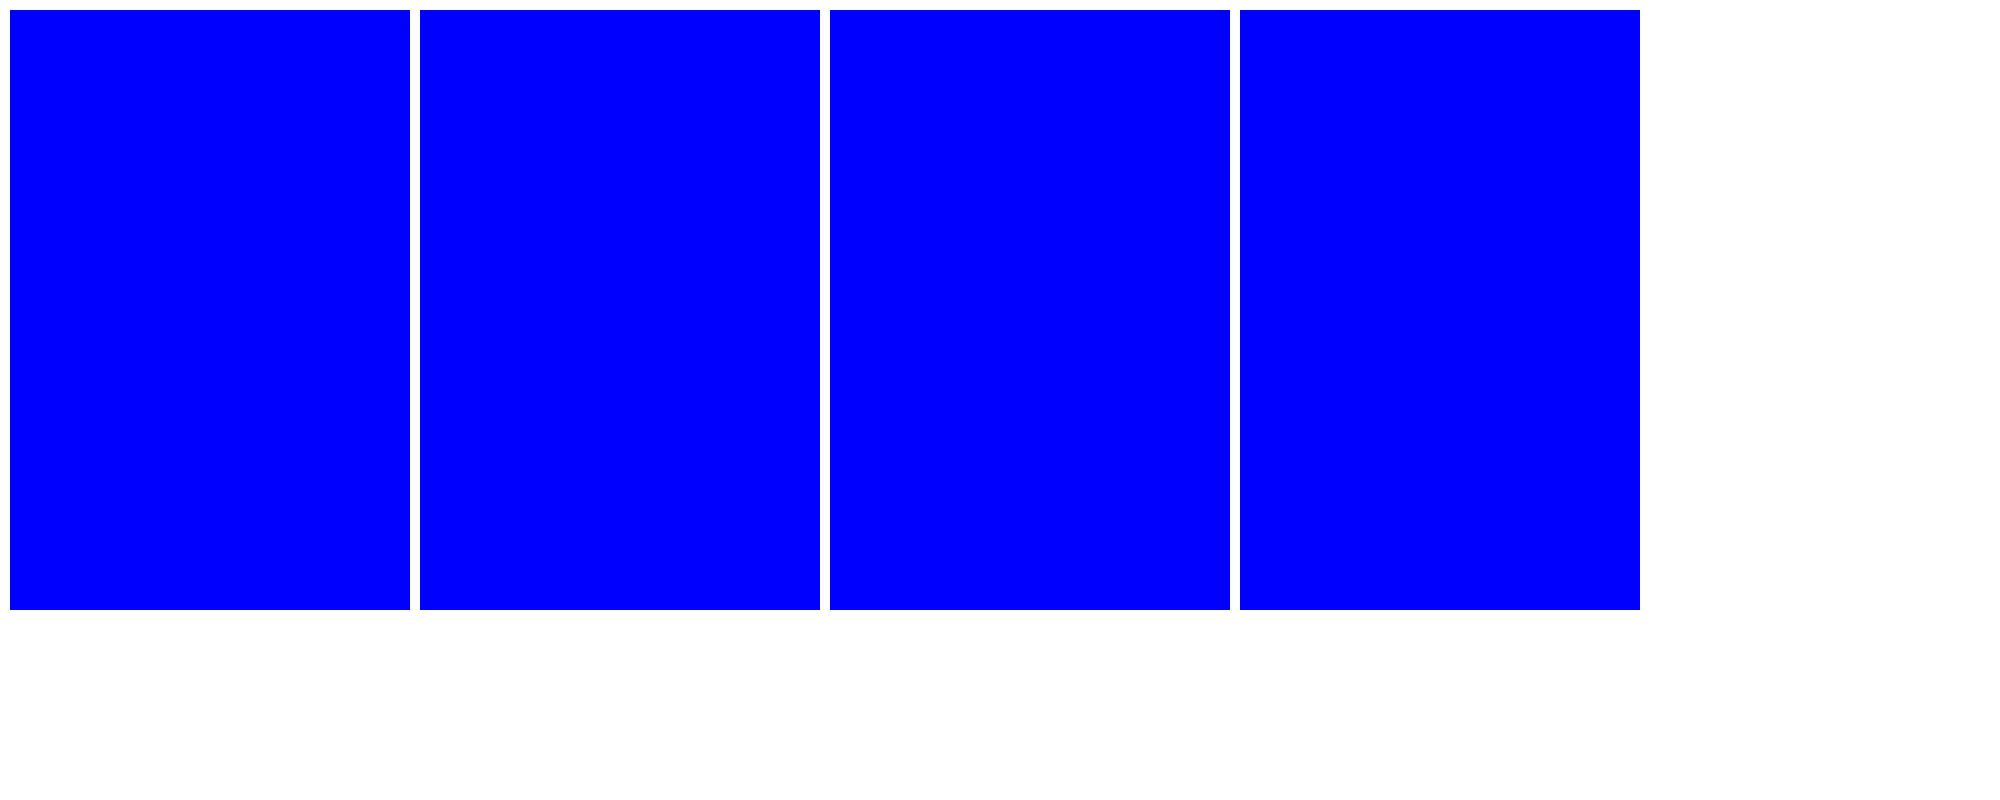
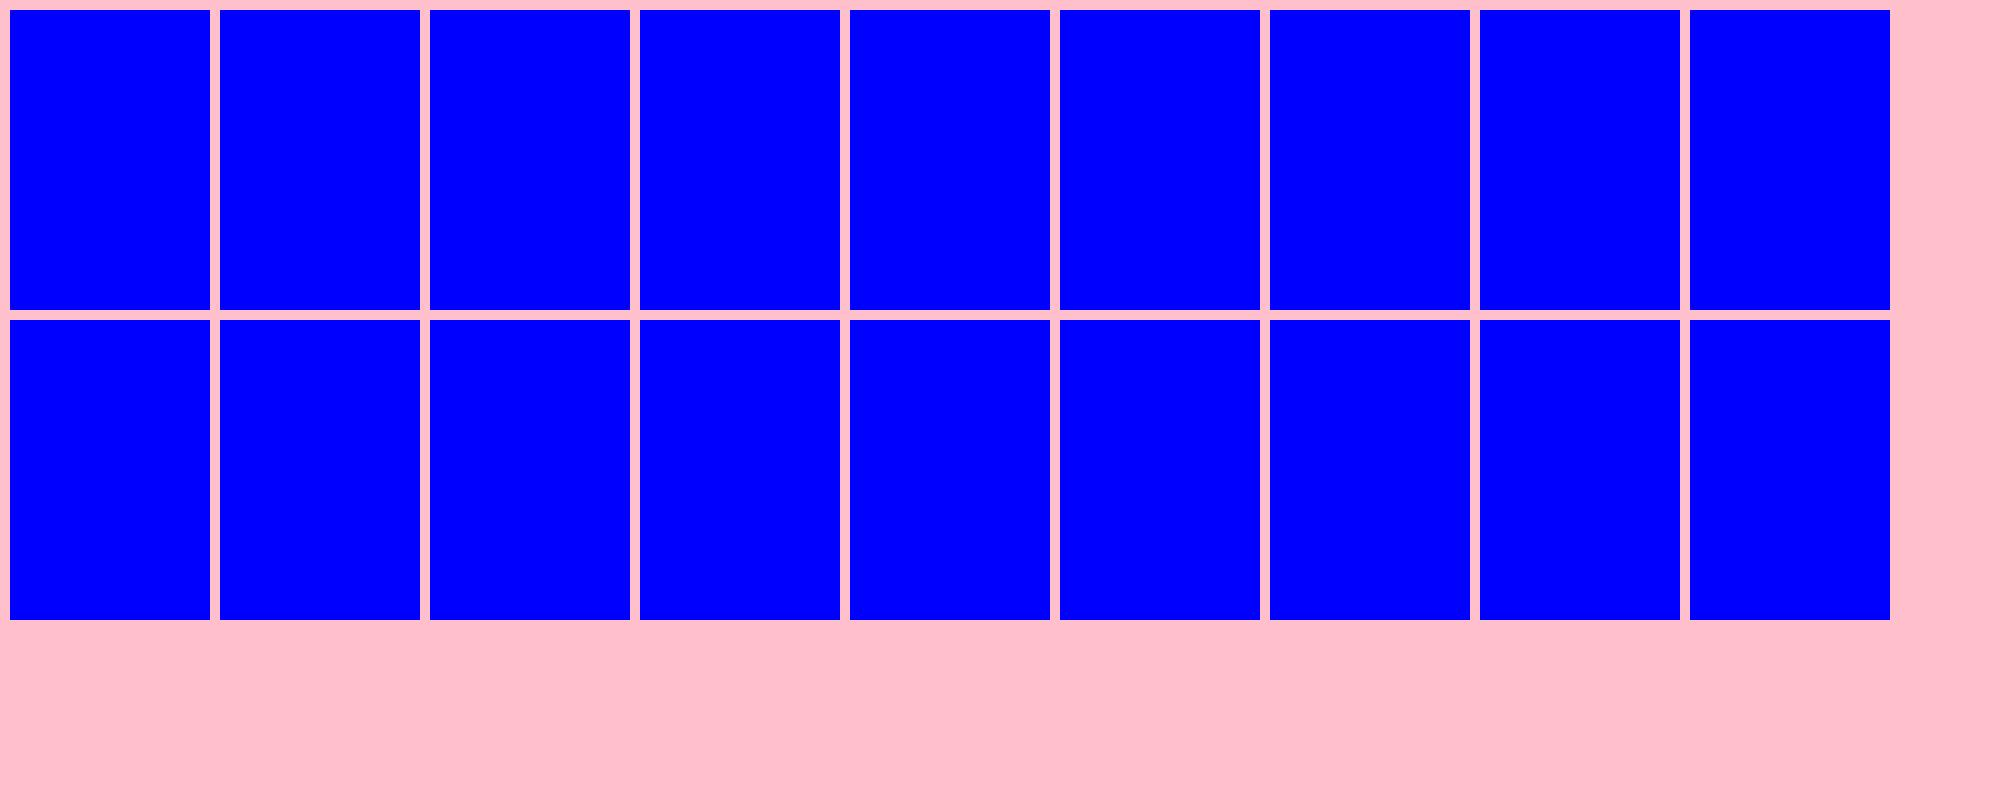
test

diff --git a/examples/test2.py b/examples/test2.py
@@ -3,11 +3,12 @@ from photo_layout.image import LayoutImage
 
 
 def main():
-    canvas = Canvas(width=2000, height=800, color="white")
+    canvas = Canvas(width=2000, height=800, color="pink")
     layout_model = LayoutModel(canvas=canvas, imagePath="test.jpg", space=10)
     layout_image = LayoutImage(layout=layout_model)
     image = layout_image.create()
     image.show()
+    image.save("imgs/example2.jpg")
 
 
 if __name__ == '__main__':

diff --git a/examples/test1.py b/examples/test1.py
@@ -3,11 +3,12 @@ from photo_layout.image import LayoutImage
 
 
 def main():
-    canvas = Canvas(color="white")
+    canvas = Canvas(color="pink")
     layout_model = LayoutModel(canvas=canvas, imagePath="test.jpg", row=3, column=3, space=10)
     layout_image = LayoutImage(layout=layout_model)
     image = layout_image.create()
     image.show()
+    image.save("imgs/example1.jpg")
 
 
 if __name__ == '__main__':

diff --git a/README.md b/README.md
@@ -9,7 +9,7 @@ from photo_layout.layout import Canvas, LayoutModel
 from photo_layout.image import LayoutImage
 
 def main():
-    canvas = Canvas(color="white")
+    canvas = Canvas(color="pink")
     layout_model = LayoutModel(canvas=canvas, imagePath="test.jpg", row=3, column=3, space=10)
     layout_image = LayoutImage(layout=layout_model)
     image = layout_image.create()
@@ -30,7 +30,7 @@ from photo_layout.layout import Canvas, LayoutModel
 from photo_layout.image import LayoutImage
 
 def main():
-    canvas = Canvas(width=2000, height=800, color="white")
+    canvas = Canvas(width=2000, height=800, color="pink")
     layout_model = LayoutModel(canvas=canvas, imagePath="test.jpg", space=10)
     layout_image = LayoutImage(layout=layout_model)
     image = layout_image.create()
